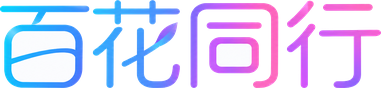
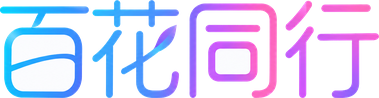
品牌区横排布局+字标瘦身；去公益定位表述；新增 QQ 官方机器人接入调研
- 移动 topbar / 桌面侧栏 / 关于页三处品牌区统一为「图标+字标+slogan」横排，slogan 以细竖线分隔
- wordmark 素材纵向拉伸 12%（4.33:1 → 3.87:1），字面视觉变瘦
- manifest 与隐私政策去除「公益/非营利」定位，改为「不向用户收取拼车费用，不参与费用分成」的事实陈述
- docs/qqbot-research.md：QQ 开放平台群机器人机制调研（资格/接入/消息额度/绑定方案/架构/功能清单）

diff --git a/public/index.html b/public/index.html
@@ -469,7 +469,7 @@
       <p class="legal-p">本平台仅作为信息发布与匹配工具，提供行程信息的发布、浏览与加入服务。本平台并非道路运输经营者，不提供运输服务，不指派司机、不调度车辆，亦不收取任何佣金或报酬。所有行程均由用户自行发起、自行联系、自行组织。</p>
 
       <h3 class="legal-h">2. 互助性质与费用</h3>
-      <p class="legal-p">用户发起的行程属于非营利性校园互助拼车。用户间分摊的费用应仅限于打车费用等直接成本，任何价格表述均仅为参考，并非本平台定价。严禁利用本平台从事非法营运或盈利性活动。因费用计算或支付产生的纠纷，由当事人自行解决，与本平台无关。</p>
+      <p class="legal-p">用户发起的行程属于校园互助拼车。本平台不向用户收取拼车费用，不参与任何费用分成，亦不提供任何付费服务承诺。用户间分摊的费用应仅限于打车费用等直接成本，任何价格表述均仅为参考，并非本平台定价。严禁利用本平台从事非法营运或盈利性活动。因费用计算或支付产生的纠纷，由当事人自行解决，与本平台无关。</p>
 
       <h3 class="legal-h">3. 身份核验局限性</h3>
       <p class="legal-p">本平台采用教育邮箱进行基础身份验证，但无法实时验证用户的真实身份、驾驶资质、车辆保险状态及车辆安全性能。用户应在实际接触中自行核实对方身份。</p>

diff --git a/public/style.css b/public/style.css
@@ -120,9 +120,12 @@ input, select { font-family: inherit; font-size: inherit; }
   width: 46px; height: 46px; border-radius: 13px;
   object-fit: contain; display: block; flex: 0 0 46px;
 }
-.brand-text { display: flex; flex-direction: column; line-height: 1.2; min-width: 0; }
-.brand-wordmark { height: 17px; width: auto; display: block; }
-.brand-slogan { font-size: 11.5px; font-weight: 500; color: var(--brand); letter-spacing: .2px; margin-top: 5px; }
+.brand-text { display: flex; align-items: center; gap: 9px; line-height: 1.2; min-width: 0; }
+.brand-wordmark { height: 17px; width: auto; display: block; flex: 0 0 auto; }
+.brand-slogan {
+  font-size: 11.5px; font-weight: 500; color: var(--brand); letter-spacing: .2px;
+  white-space: nowrap; padding-left: 9px; border-left: 1px solid var(--line-strong);
+}
 .topbar-right { display: flex; align-items: center; gap: 8px; }
 .uid {
   font-size: 12.5px; font-weight: 500; color: var(--brand-700); background: var(--brand-050);

diff --git a/docs/qqbot-research.md b/docs/qqbot-research.md
@@ -1,0 +1,138 @@
+---
+title: QQ 官方机器人接入调研（BHTXweb 群聊撮合）
+date: 2026-09-13
+status: 调研完成，待申请机器人账号
+---
+
+# 结论先行
+
+**可行，且比预想的宽松。** 个人主体（无需营业执照）即可在 QQ 开放平台注册并创建群机器人；核心撮合动作（发布/查询/加入）全部走「@机器人 → 被动回复」链路，被动回复不占额度；通知类（加入提醒、出发提醒、每日播报）走主动消息，额度是**每群每日 1000 条、每用户每日 1000 条**（qpm 限速未认证 30 条/分钟），对百花同行的体量是天文数字。真正的硬门槛只有两个：机器人要**审核上架**（需提交语料、自测报告），以及 **markdown/按钮消息要另行申请**（门槛：上架后过去 7 天平均 ≥3 个群在用——冷启动初期用纯文本即可，不需要它）。
+
+数据来源均为官方文档站 bot.q.qq.com/wiki（api-v2）与 q.qq.com/wiki FAQ，抓取时间 2026-09-13。
+
+# 一、资格与申请路径
+
+- 注册 [q.qq.com](https://q.qq.com/)，主体类型选「个人」；每账号最多注册 **5 个机器人**（企业 10 个），个人主体不能转企业。
+- 创建机器人后获得 **AppID + AppSecret**。旧的固定 Token 鉴权已废弃，必须用 **AccessToken**（AppSecret 换取，有时效，需定时刷新）。
+- 群机器人**没有公域/私域之分**（那是频道机器人的概念），可直接被拉进普通 QQ 群。
+- 上架审核：提交**语料配置（指令词列表）、功能配置、自测报告**；当日 16:00 前提交当日审完。常见驳回：没切回正式环境域名、指令有特殊条件没写进自测报告、审核期间机器人不在线、需要第三方账号绑定但没提供测试账号（对我们=要提供一个可登录的测试学号）。
+- 名称要求 ≥2 字、体现功能、禁营销词。「百花同行」可过（与现有品牌一致）。
+- markdown/keyboard 按钮能力：上架后**过去 7 天平均使用群数 ≥3** 才能申请，每月 15-20 日统一审核。P0 版本用纯文本完全够。
+
+# 二、接入机制
+
+两种接收事件的方式，二选一：
+
+| | WebSocket（推荐） | WebHook |
+|---|---|---|
+| 方向 | 机器人**主动外连** wss://api.bot.qq.com/websocket | 平台 POST 我们的 HTTPS 回调 |
+| 服务器要求 | 无入站端口，直连即可 | 必须公网 HTTPS（端口 80/443/8080/8443），nginx 加路由 |
+| 签名 | 无 | Ed25519 签名校验（secret 派生私钥，event_ts + plain_token） |
+| 断线恢复 | OpCode 6 Resume，服务端自动补发漏掉的事件 | 依赖平台重试 |
+| 额外运维 | 长连接保活、重连 | 无状态，但要暴露入站端点 |
+
+**推荐 WebSocket**：服务器是国内腾讯云直连 QQ API 没有网络障碍；省掉 nginx 配置与签名实现；Resume 机制保证消息不丢。
+
+握手流程：GET 网关地址 → 连接 → 收 OpCode 10（心跳周期）→ 发 OpCode 2 Identify（鉴权头 `QQBot {AccessToken}`）→ 收 Ready（session_id）→ 按周期发 OpCode 1 心跳。
+
+订阅事件用 intents 位标记，我们只需要 `GROUP_AND_C2C_EVENT (1 << 25)` 一组，覆盖：
+- `GROUP_AT_MESSAGE_CREATE`：群里 @机器人 的消息（**核心事件**）
+- `C2C_MESSAGE_CREATE`：用户私聊机器人（**绑定流程用**）
+- `GROUP_ADD_ROBOT` / `GROUP_DEL_ROBOT`：进群/退群
+- `FRIEND_ADD` / `FRIEND_DEL`：加好友（主动私聊的前提，见下）
+
+# 三、消息机制的硬约束（最重要的数字）
+
+**被动消息（回复，带 msg_id / event_id）——不占任何额度：**
+
+| 场景 | 窗口期 | 可回复次数 |
+|---|---|---|
+| 群聊 | 5 分钟 | 5 次 |
+| 单聊 | 60 分钟 | 4 次 |
+
+→ 发布、查询、加入的交互全在这条链路上，@机器人后 5 分钟内最多可追 5 条回复，足够完成「查询→按序号加入→确认」的对话。
+
+**主动消息（不带 msg_id）——有每日额度：**
+
+| 场景 | 每日上限 | 速率（未认证 / 认证） |
+|---|---|---|
+| 群聊 | 每群 1000 条 | 30 qpm / 60 qpm |
+| 单聊 | 每用户 1000 条 | 5 qps 且 30 qpm / 10 qps 且 20 qpm |
+
+→ 群里每天发 1000 条主动消息的上限意味着「每日行程播报」「新行程实时播报」这类功能**毫无配额压力**，真正的限制是 qpm 速率（突发批量提醒要排队/合并）。
+
+**另外三条红线：**
+1. 用户可以在 QQ 客户端关闭「允许主动发送」，关了就一律发失败（对应事件 GROUP_MSG_REJECT）——提醒类功能必须容错，不能假设送达。
+2. 相同 msg_id + 相同 msg_seq 重复发送会失败；对同一条消息多次回复要**递增 msg_seq**。
+3. 消息发出 2 分钟内可撤回（DELETE 接口）——可用来自动撤回格式错误的引导消息。
+
+**接口：** 群聊 `POST /v2/groups/{group_openid}/messages`；单聊 `POST /v2/users/{user_openid}/messages`。msg_type：0=文本，2=markdown（需申请）。图片等富媒体走单独的上传媒体接口再引用 media_info。
+
+# 四、身份与绑定（整个方案的前提）
+
+- 官方机器人给的是 **openid 假名体系**：机器人在群里拿到的用户标识是 `user_openid`（加密假名，不可反查 QQ 号），群本身是 `group_openid`。这与 User 表早已预留的 `qqOpenId` 字段设计完全吻合（建库时就按「QQ 官方机器人后续接入」预留了唯一索引）。
+- **绑定流程设计**（私聊完成，避免学号暴露在群里）：
+  1. 用户在群里 @机器人 发「绑定」→ 机器人被动回复引导，并主动发起加好友（或用户直接加机器人为好友）；
+  2. 私聊发送「绑定 学号」→ 服务端复用现有 `/api/auth/send-code` 的全部逻辑（学号校验、60s 冷却、15m/5 限流、SMTP 发码）发验证码到北化邮箱；
+  3. 用户私聊回复 6 位验证码 → 校验通过 → `User.qqOpenId = user_openid` 落库，此后该 QQ 身份即映射到既有北化身份；
+  4. 同一邮箱已绑定其他 qqOpenId 时拒绝（唯一索引兜底）。
+- 绑定是**一次性动作**，之后群里所有指令直接以 openid 反查 User，无需再登录。网页端与 QQ 端共用同一条身份记录——联系方式、ID、行程全部互通。
+- ⚠ 一个需要实测确认的细节：同一用户在不同群里的 user_openid 是否一致。若不一致，绑定记录要存「user_openid + 绑定时的群」或在 C2C 场景绑定（C2C 的 openid 更可能全局稳定）。开发第一周用沙箱群实测。
+
+# 五、架构设计（只保留一份撮合实现）
+
+```
+QQ 群 → QQ 官方服务器 ⇄ (WebSocket) ⇄ qqbot.js（pm2 新进程，3101 不占）
+                                        │ 解析 / 会话 / 回复
+                                        ▼
+                              server.js 内部接口 /api/internal/*（内网 + 管理密钥）
+                                        │ 全部业务规则仍只在此实现
+                                        ▼
+                                   MongoDB（bhtxweb）
+```
+
+- **qqbot.js 是薄壳**：只做事件接收、自然语言解析、会话状态（如「查询结果序号→行程 id」的 5 分钟内存缓存）、组装回复文本。它**不直接读写业务集合**，所有撮合动作调 server.js 新增的内部接口（用内网地址 + ADMIN_KEY 鉴权），发布/加入/退出的限流、防超卖、同时 ≤2 等规则天然复用，不产生并行逻辑。
+- server.js 需新增内部接口（约 3 个）：`/api/internal/qq/bind-start`（发码）、`/api/internal/qq/bind-check`（校验+落 qqOpenId）、`/api/internal/qq/command`（发布/查询/加入/退出，内部按 openid 执行，复用现有 handler 逻辑抽出的公共函数）。
+- pm2 第 5 个应用 `bhtx-qqbot`（fork 模式，同款坑：cluster 不传 node_args）。
+
+# 六、自然语言解析（P0 用规则，不引 LLM）
+
+用户示例「明天下午四点 北化北区到北化东区」解析为 `{date, time, from, to}`：
+
+- **时间**：日期词（今天/明天/后天/大后天/周X/本周X/下周X + 具体日期 MM月DD日）+ 时刻词（X点/X:30/X点半/X点XX分 + 上午/中午/下午/晚上偏移，下午四点=16:00，缺省时刻视为无效并追问）。过去时刻回复提示。
+- **地点**：以「到/至/→/－」切分，两段分别去 LOCATIONS 地点库（17 个站点点位前端已有）做精确匹配；匹配失败的高频处理：先尝试去「北化」前缀/别名映射（如「学校」→北化北区），仍失败则回复「未收录该地点，请到网站发布」——地点库不开放自定义，保证「线路×时段」数据质量，这与运营策略（时空切分）一致。
+- 解析失败一律回引导文案（合法指令示例），不做模糊猜测。
+- 查询语义：「明天 去南站的」「查 周五 北化北区」→ 复用大厅过滤逻辑（日期 + 出发地/目的地），文本列表返回前 5 条 + 剩余条数提示。
+
+规则版覆盖 90%+ 真实场景且零依赖零幻觉；若未来上 LLM 增强（多意图/口语容错），只替换解析层，架构不变。
+
+# 七、功能清单
+
+**P0（上架即用，全被动链路 + 文本消息）**
+1. 绑定（见第四节）
+2. 发布：「@百花同行 明天下午四点 北化北区到北化东区」→ 解析 → 回复「已发布：9月14日 16:00 北化北区→北化东区，已存联系方式将被采用」（QQ 渠道发布时 contact 取 User.contact，没有则提示去网站补充）
+3. 查询：「@百花同行 查 明天」→ 当日行程列表（序号+时间+路线+空位）
+4. 加入：「@百花同行 加入 2」→ 按最近一次查询结果的序号加入（5 分钟会话有效期）
+5. 我的：「@百花同行 我的」→ 我发起的/我加入的进行中行程
+
+**P1（主动消息，额度充裕但要容错用户关闭通知）**
+6. 加入/退出通知：有人加入行程 → 私聊提醒发起人（单聊主动，每用户每日 1000 条内）
+7. 出发提醒：定时扫描出发前 1 小时的行程 → 逐个私聊全车成员（qpm 限制下做合并排队）
+8. 每日群播报：每天固定时刻把当天行程汇总发到群（群主动 1 条/天）
+9. 新行程播报：有人发布行程即向群播报一条（驱动「群里约定时间点集中发布」的冷启动打法）
+
+**P2（数据积累后）**
+10. 行程完成后的费用回收提醒（actualCost 填写引导）
+11. 热门路线播报（周统计，为「线路×时段专群」运营提供依据）
+12. markdown 卡片 + 按钮（加入/退出按钮化），届时已满足「7 天 3 群」门槛可申请
+
+# 八、上线路径与风险
+
+**操作顺序**：q.qq.com 个人主体注册 → 创建机器人「百花同行」→ 拿 AppID/AppSecret → 沙箱群开发联调（沙箱群可自主创建）→ 提交语料+自测报告上架审核（提供测试学号）→ 正式群启用。
+**开发量评估**：qqbot.js（WS 接入+解析+会话）+ server.js 内部接口（3 个）≈ 2-3 个工作日的量，无新依赖负担（axios/ws 已有或加一个 ws 包）。
+**风险清单**：
+- 审核驳回（最高频）：对照官方驳回清单自查——自测报告要写全每个指令的触发条件。
+- 主动消息送达率：用户关闭「允许主动发送」即不可达 → 提醒类功能定位为「锦上添花」，关键信息仍以网站为准，不承诺通知。
+- openid 语义（第四节实测项）。
+- 官方政策变动：qpm/额度数值以开发当时官方文档为准（本文数字抓取于 2026-09-13）。
+- 与 Amadeus 的边界：Amadeus 走的是另一套通道（无对外 API，无法复用），本方案是官方 bot 体系，两者互不干扰；群里长期共存时注意指令词区分。
